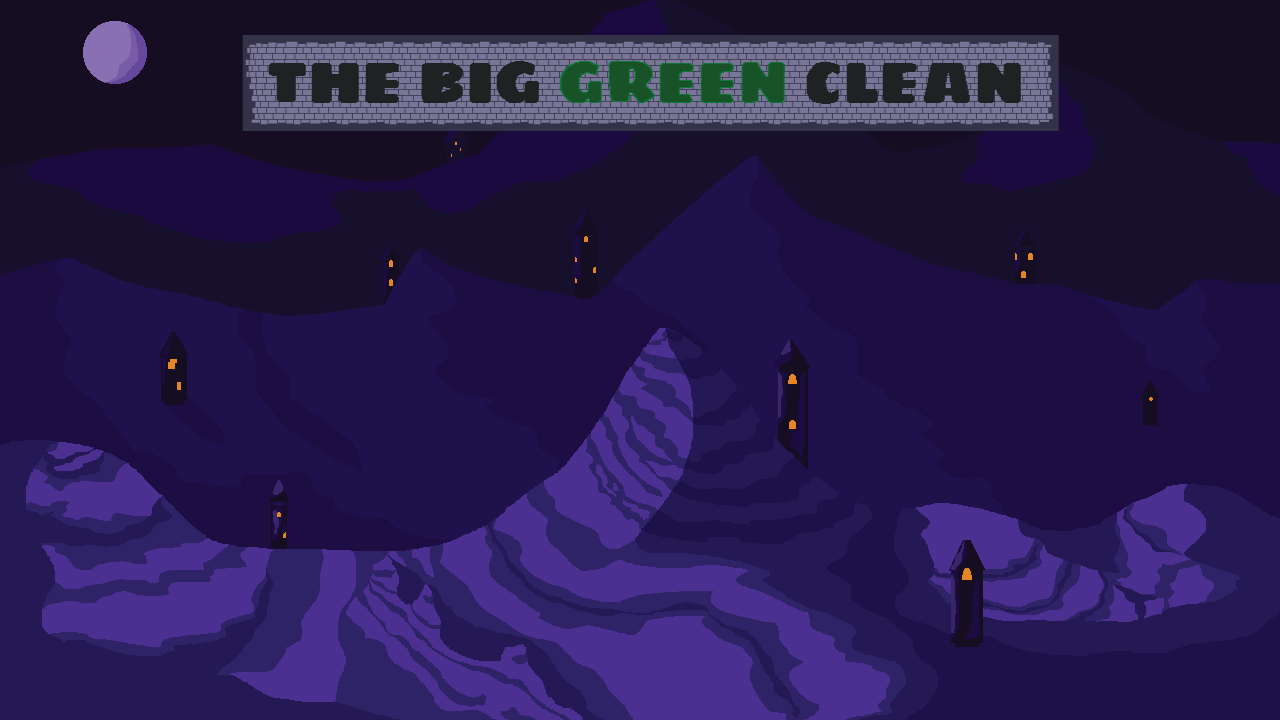
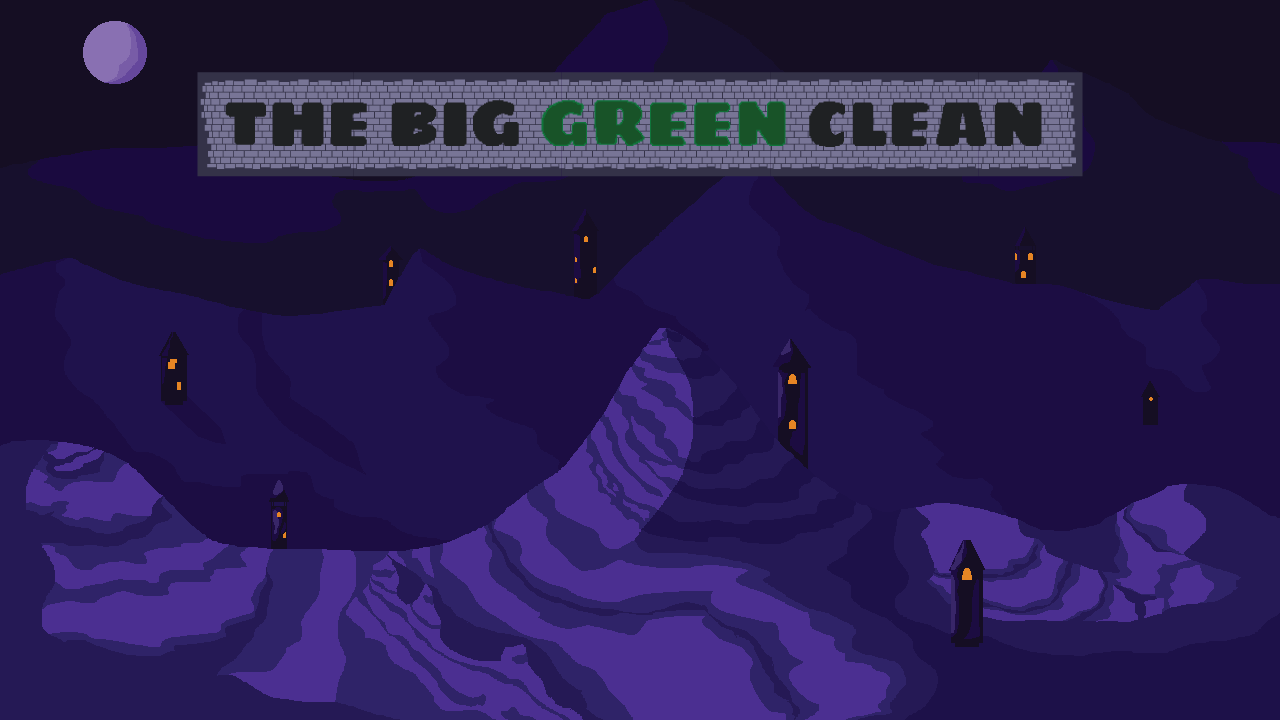
added text tweening and adjusted title position

Changed region(s): [[0.1562, 0.0306, 0.8438, 0.2444]]

diff --git a/src/Scenes/Title.js b/src/Scenes/Title.js
@@ -31,10 +31,20 @@ class Title extends Phaser.Scene  {
         this.tower_sprite.anims.play('tower_animation'); 
 
         // create text
-        this.instructionalText = this.add.text(640, 360, "Press SPACE to start.", {
-            backgroundColor: '#5d5861',
-            align: 'center',
-            fontSize: '32px'
+        this.playText = this.add.text(352, 575, "Press SPACE to play.", {
+            fontFamily: 'Eight Bit Dragon',
+            fontSize: '48px'
+        });
+        this.creditsText = this.add.text(352, 633, "Press R for credits.", {
+            fontFamily: 'Eight Bit Dragon',
+            fontSize: '48px'
+        });
+        this.textTween = this.tweens.add({
+            targets: [ this.playText, this.creditsText ],
+            alpha: 0.1,
+            duration: 2000,
+            yoyo: true,
+            repeat: -1
         });
     }
 
